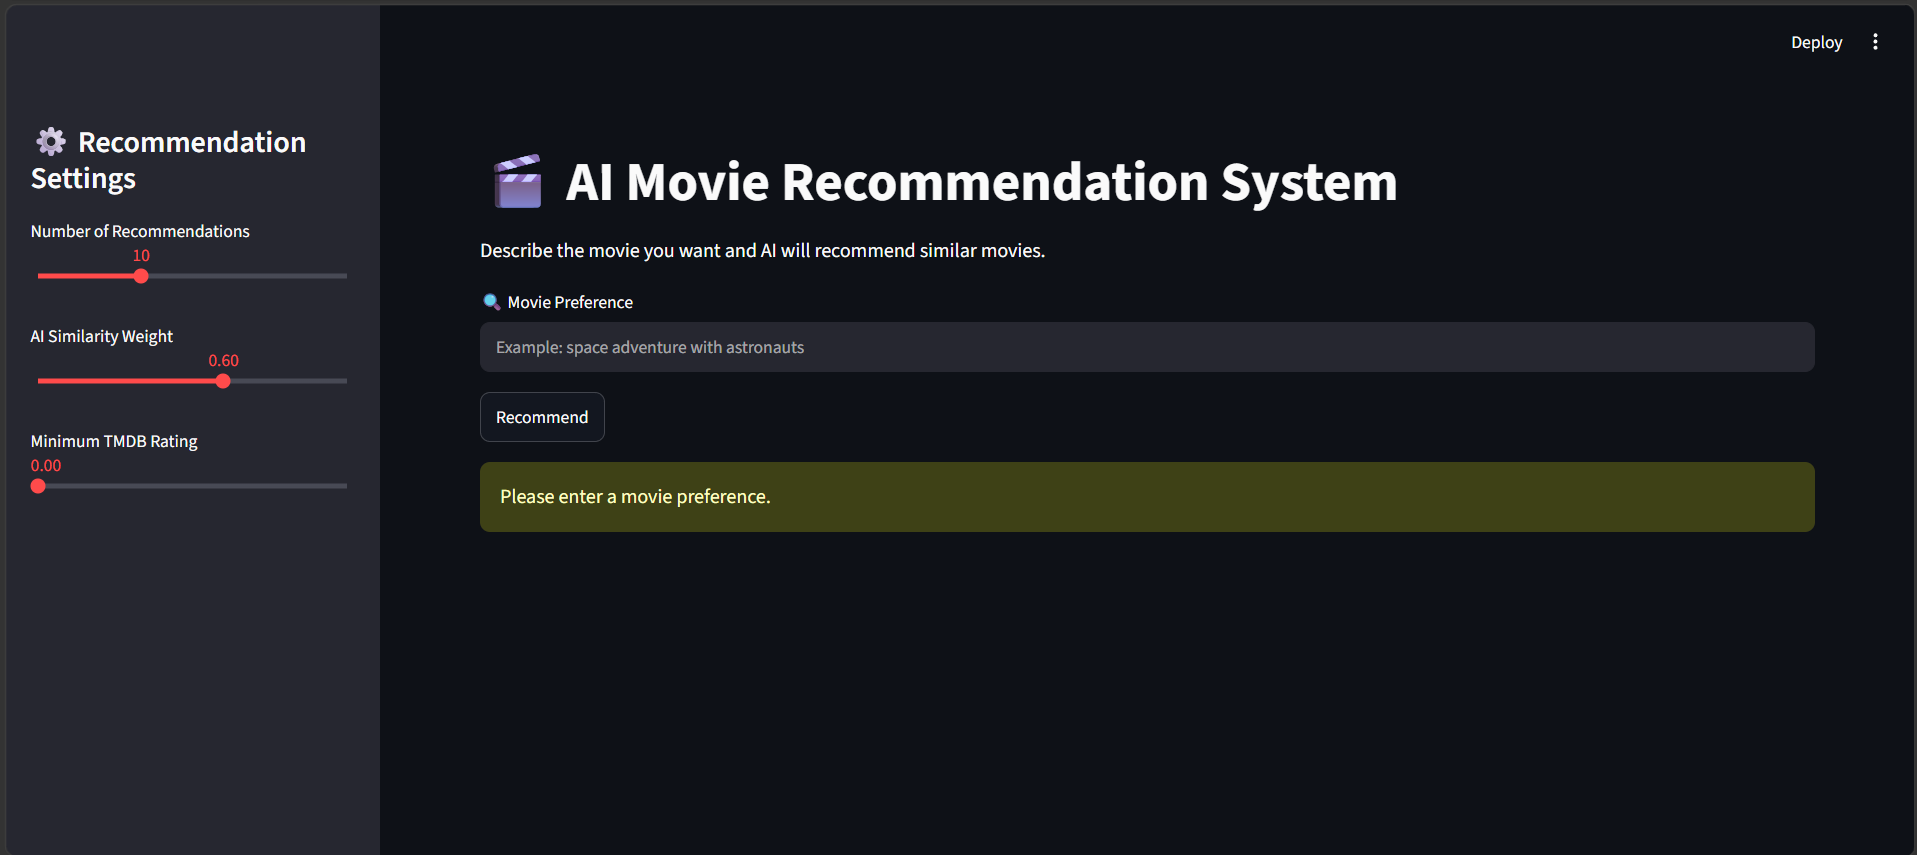
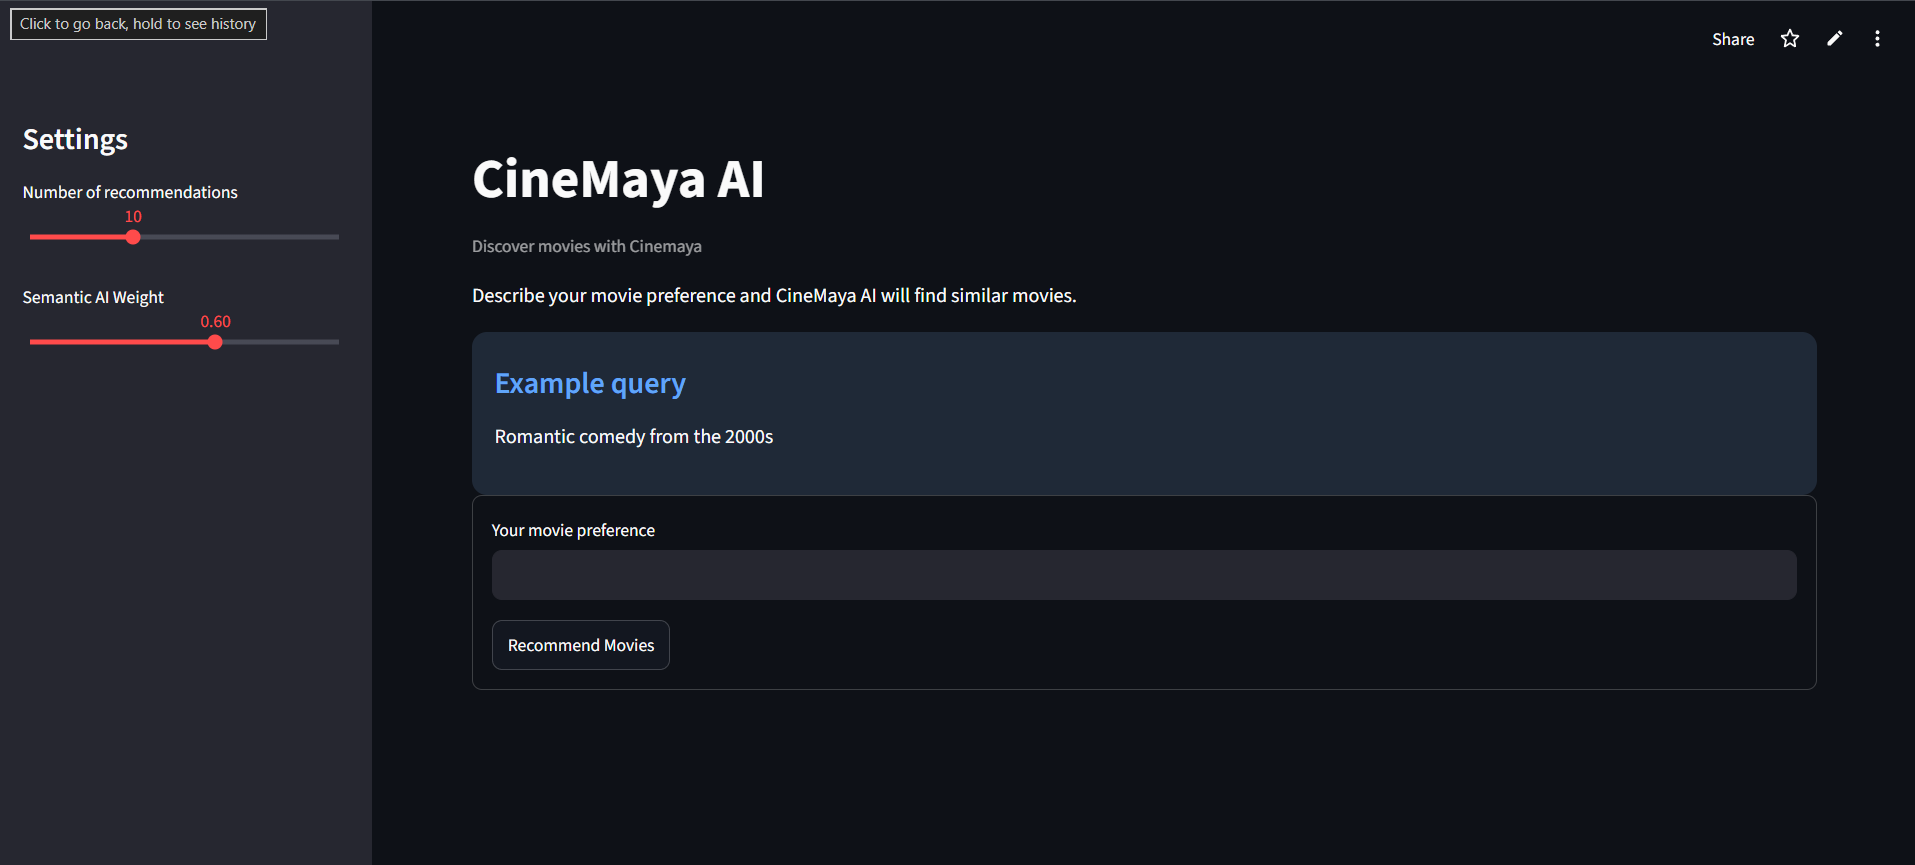
Add CineMaya AI screenshots

diff --git a/README.md b/README.md
@@ -17,10 +17,7 @@ The system analyzes the request using Gemini AI, creates a richer semantic repre
 
 # 🚀 Live Demo
 
-Streamlit Application:
-
-(Add your Streamlit URL here)
-
+[Open CineMaya AI Demo](https://ai-movie-recommendation-system-9zmypcrnp7etambwpmwmmc.streamlit.app/)
 
 ---
 
@@ -315,15 +312,19 @@ streamlit run app/app.py
 # 📸 Screenshots
 
 
-(Add screenshots here)
+## Home Page
 
-Examples:
-
-- Home page
-- AI Understanding panel
-- Recommendation results
+![CineMaya AI Home Page](screenshots/homepage.png)
 
 
+## AI Understanding Panel
+
+![AI Understanding](screenshots/ai_understanding.png)
+
+
+## Recommendation Results
+
+![Recommendation Results](screenshots/recommendation_result.png)
 ---
 
 # 🔮 Future Improvements
